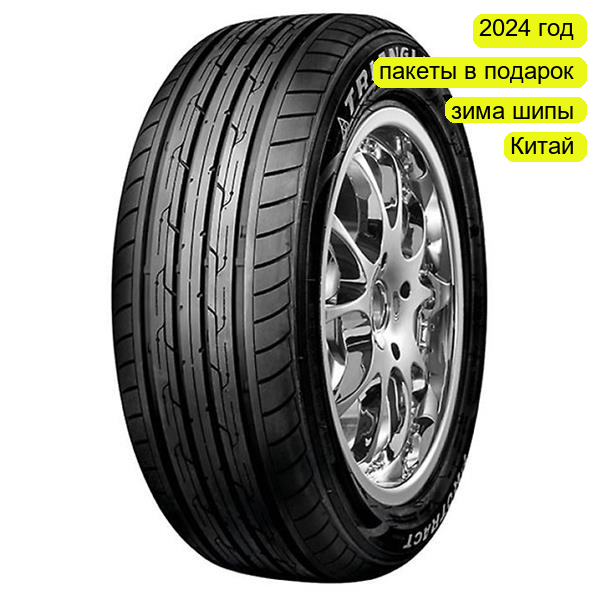
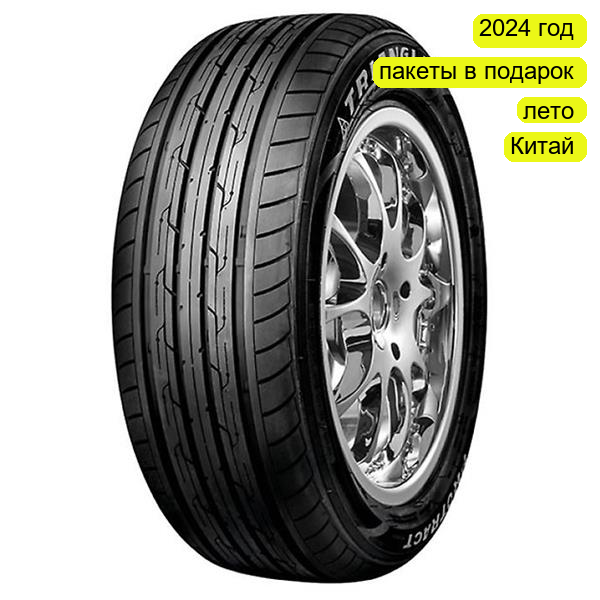
20250527_2

Changed region(s): [[0.72, 0.15, 0.96, 0.21]]

diff --git a/src/utils/generete_images_info.py b/src/utils/generete_images_info.py
@@ -5,16 +5,29 @@ from gspread.worksheet import Worksheet as Wor
 def generate_images_info(worksheet: Wor):
     data = worksheet.get_all_records()
 
-    test_data = data[0]
-
-    print(test_data)
-    season = 'зима шипы'
     bags = 'пакеты в подарок'
-    year_to_image = f'{str(test_data['year'])} год'
 
-    add_text_to_image(image_url=test_data['picture'],
-                      texts=[year_to_image, bags, season, test_data['country']],
-                      output_filename=str(test_data['id']))
+    for item_data in data[:10]:
+        image_texts  = []
+
+        if item_data['year']:
+            image_texts.append(f'{str(item_data['year'])} год')
+
+        image_texts.append(bags)
+
+        if item_data['season']:
+            season = item_data['season']
+            if season == 'зима':
+                season = 'зима липучка'
+            image_texts.append(season)
+
+        if item_data['country']:
+            image_texts.append(item_data['country'])
+
+
+        add_text_to_image(image_url=item_data['picture'],
+                          texts=image_texts,
+                          output_filename=str(item_data['id']))
 
 
     # add_text_to_image(image_url='https://images.robotyre.ru/productimages/c67a709e1482451991fb5dc9a324019b/Big.png',

diff --git a/src/main.py b/src/main.py
@@ -16,14 +16,14 @@ root = tree.getroot()
 worksheet = get_worksheet(name_sheet=settings.SPREADSHEET)
 
 #Обновляем данные в листе и добавляем новый элемент если его нет в листе
-update_data_in_worksheet(worksheet=worksheet, root=root)
+#update_data_in_worksheet(worksheet=worksheet, root=root)
 
 #Формируем файла output.xml с только нужными шинами
-delete_elements(worksheet=worksheet, tree=tree, filename_local='output.xml')
+#delete_elements(worksheet=worksheet, tree=tree, filename_local='output.xml')
 
 #выкладываем полученный файл на FTP shopkolesa.ru
-save_to_ftp(file_parth='output.xml')
+#save_to_ftp(file_parth='output.xml')
 
 #генерируем фото с инфографикой
-#generate_images_info(worksheet=worksheet)
+generate_images_info(worksheet=worksheet)
 

diff --git a/src/utils/update_data_in_worksheet.py b/src/utils/update_data_in_worksheet.py
@@ -36,9 +36,10 @@ def update_data_in_worksheet(worksheet: Wor, root: ET.Element):
         new_element['count'] = int(offer.find('count').text)
         new_element['price'] = int(offer.find('price').text)
         new_element['picture'] = offer.find('picture').text
+        new_element['season'] = offer.find('param[@name="Сезон"]').text.lower()
         data = add_or_update_element(data, new_element)
 
     print(len(data), data)
 
-    df = pd.DataFrame(data, columns=['id', 'name', 'count', 'price', 'status_ya', 'picture'])
+    df = pd.DataFrame(data, columns=['id', 'name', 'count', 'price', 'status_ya', 'picture', 'year', 'country', 'season'])
     worksheet.update([df.columns.values.tolist()] + df.values.tolist())
